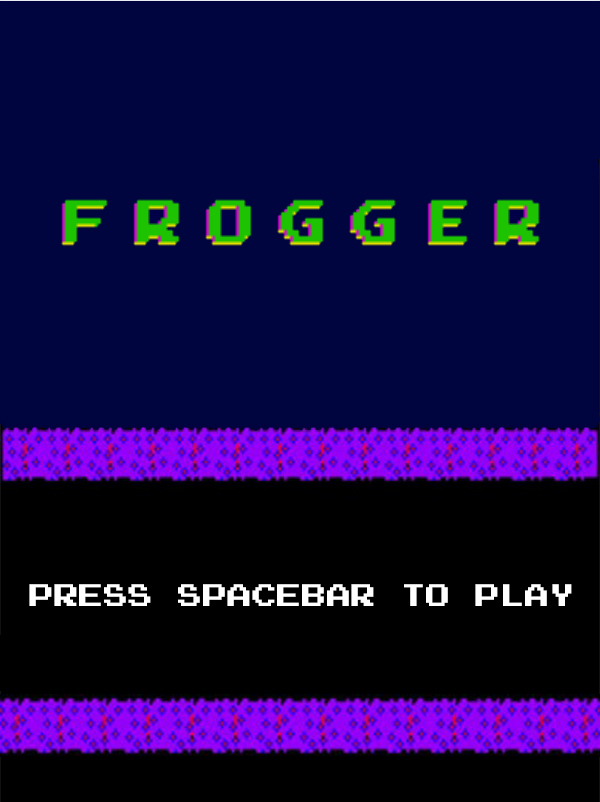
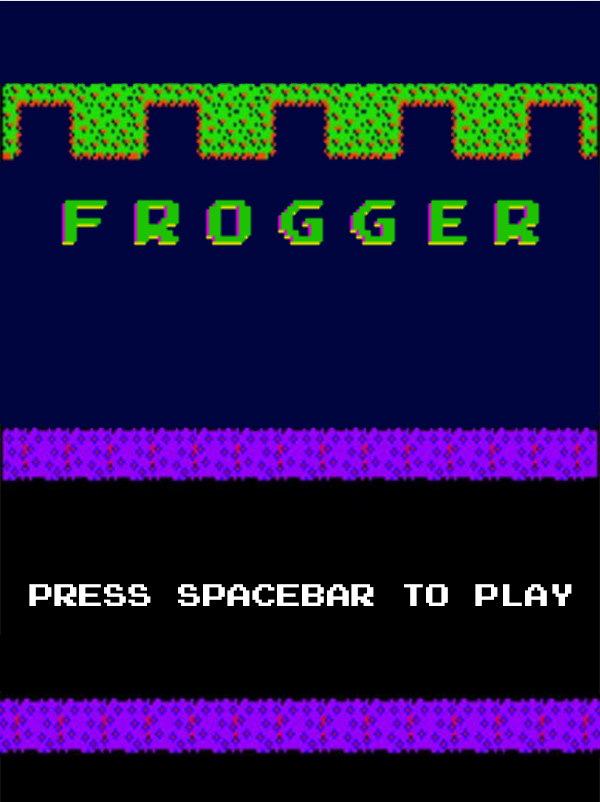
Updated Codings
Refactored some codes, added case for Menu

Changed region(s): [[0.0, 0.0935, 1.0, 0.2182]]

diff --git a/src/p4_group_8_repo/Main.java b/src/p4_group_8_repo/Main.java
@@ -23,41 +23,57 @@ public class Main extends Application {
 		launch(args);
 	}
 
-	private enum STATE {
+	public static enum STATE {
 		MENU,
 		GAME
 	};
 	
-	private STATE State = STATE.MENU;
+	public static STATE State = STATE.MENU;
 	
 	@Override
 	public void start(Stage primaryStage) throws Exception {
 		
-		if (State == STATE.MENU) {
-			displayMenu(primaryStage); // set and display the menu 
-		}
 		
-		else if (State == STATE.GAME) {
+		if (State == STATE.GAME) {
 			displayGame(primaryStage); // set and display the game 
-			start(); // start game
+			start();
 		}
 		
-		
+		else if (State == STATE.MENU) {
+			displayMenu(primaryStage);
+		}
 		
 
 	}
 	
 	private void displayMenu(Stage primaryStage) {
 		
+		
 		menu = new MyStage();
 		mainMenu = new Scene(menu, 600, 800);
-		splashScreen = new BackgroundImage("file:src/resources/background.jpg");
-		
-		
+		splashScreen = new BackgroundImage("file:src/resources/menu.jpg");
+		animal = new Animal("file:src/resources/froggerUp.png");
 		menu.add(splashScreen);	
+		menu.add(new Turtle(500, 376, -1, 130, 130));
+		menu.add(new Turtle(300, 376, -1, 130, 130));
+		menu.add(new WetTurtle(700, 376, -1, 130, 130));
+	
+		
+		menu.add(new Log("file:src/resources/logs.png", 300, 0, 276, -2));
+		menu.add(new Log("file:src/resources/logs.png", 300, 400, 276, -2));
+		
+		menu.add(new Log("file:src/resources/log3.png", 150, 50, 329, 0.75));
+		menu.add(new Log("file:src/resources/log3.png", 150, 270, 329, 0.75));
+		menu.add(new Log("file:src/resources/log3.png", 150, 490, 329, 0.75));
+		
+		menu.add(animal);
+		
 		menu.start();
+		
 		primaryStage.setScene(mainMenu);
 		primaryStage.show();
+	
+		
 	}
 
 	/**
@@ -177,4 +193,6 @@ public class Main extends Application {
 		alert.setContentText("Highest Possible Score: 800");
 		alert.show();
 	}
+
+
 }

diff --git a/src/p4_group_8_repo/MyStage.java b/src/p4_group_8_repo/MyStage.java
@@ -6,9 +6,11 @@ import javafx.event.EventHandler;
 import javafx.scene.input.KeyEvent;
 import javafx.scene.media.Media;
 import javafx.scene.media.MediaPlayer;
+import p4_group_8_repo.Main.STATE;
 
 public class MyStage extends World{
 	MediaPlayer mediaPlayer;
+	
 	@Override
 	public void act(long now) {
 		
@@ -37,6 +39,18 @@ public class MyStage extends World{
 		});
 	}
 	
+	public void menu() {
+		setOnKeyPressed(new EventHandler<KeyEvent>() {
+			public void handle(KeyEvent event){
+				switch (event.getCode()) {
+					case Q:
+						Main.State = STATE.GAME;
+					default:
+						break;
+				}
+			}	
+		});
+	}
 		
 	public void playMusic() {
 		String musicFile = "src/resources/Frogger Main Song Theme (loop).mp3";   

diff --git a/src/p4_group_8_repo/Animal.java b/src/p4_group_8_repo/Animal.java
@@ -10,14 +10,7 @@ import javafx.scene.input.KeyEvent;
 
 
 public class Animal extends Actor {
-	Image imgW1;
-	Image imgA1;
-	Image imgS1;
-	Image imgD1;
-	Image imgW2;
-	Image imgA2;
-	Image imgS2;
-	Image imgD2;
+	Image imgW1, imgA1, imgS1, imgD1, imgW2, imgA2, imgS2, imgD2;
 	int points = 0;
 	int end = 0;
 	private boolean second = false;

diff --git a/src/p4_group_8_repo/WetTurtle.java b/src/p4_group_8_repo/WetTurtle.java
@@ -3,10 +3,7 @@ package p4_group_8_repo;
 import javafx.scene.image.Image;
 
 public class WetTurtle extends Actor{
-	Image turtle1;
-	Image turtle2;
-	Image turtle3;
-	Image turtle4;
+	Image turtle1, turtle2, turtle3, turtle4;
 	private int speed;
 	int i = 1;
 	boolean bool = true;
